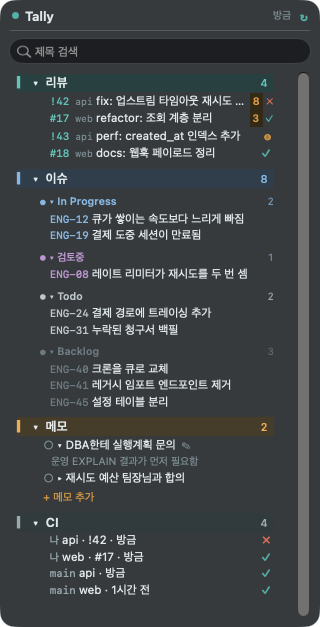
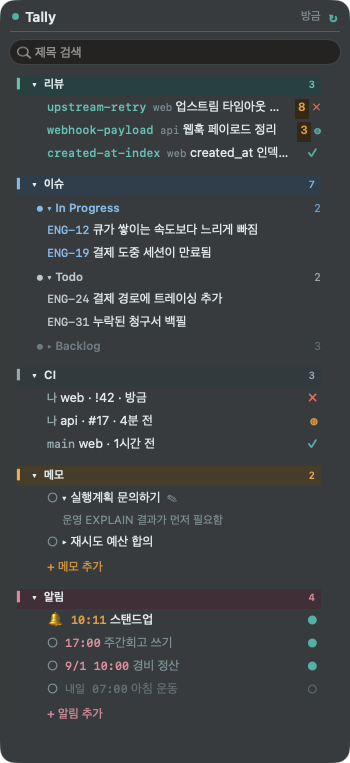
docs: shoot the screenshots again, now that there are five sections
The images still showed four sections in the old sizes, and reviews still
led with !42 rather than the branch. Retaken from a sample-data instance:
five sections in the current order, an alarm that has rung and one
switched off, and the bell in the menu bar.

Also fixes a real bug the reshoots exposed: right after login the panel
anchors to a menu-bar item that has no window yet, so it lands off
screen. It now re-anchors as soon as the item has a place, and a
MW_DIR instance logs its window and item frames so the documentation
shots can be scripted.

diff --git a/widget.swift b/widget.swift
@@ -1586,6 +1586,19 @@ final class Widget: NSObject, NSApplicationDelegate, NSTextViewDelegate,
         return NSRect(x: x, y: top - h, width: w, height: h)
     }
 
+    /// 로그인 직후에는 메뉴바 아이콘이 아직 자리를 못 잡아서 창이 엉뚱한 곳에 붙는다.
+    /// 아이콘 자리가 생길 때까지 몇 번 더 붙여본다.
+    func reanchorSoon(_ delays: [Double] = [0.4, 1.2, 2.5, 4.0]) {
+        guard (statusItem?.button?.window?.frame.height ?? 0) < 1 else { return }
+        for d in delays {
+            DispatchQueue.main.asyncAfter(deadline: .now() + d) { [weak self] in
+                guard let self, self.panel?.isVisible == true,
+                      (self.statusItem?.button?.window?.frame.height ?? 0) >= 1 else { return }
+                self.fitAndAnchor()
+            }
+        }
+    }
+
     /// 내용 높이에 맞춰 창을 줄이고 아이콘 아래로 붙인다.
     /// 창 폭이 바뀌면 오른쪽 정렬(개수)과 띠 배경이 어긋나므로 한 번 더 그린다.
     func fitAndAnchor() {
@@ -1597,6 +1610,12 @@ final class Widget: NSObject, NSApplicationDelegate, NSTextViewDelegate,
         let chrome: CGFloat = fs(32) + fs(30) + 26      // 헤더 + 검색칸 + 여백
         panel.setFrame(anchorFrame(height: ceil(textHeight) + chrome), display: true)
         panel.contentView?.layoutSubtreeIfNeeded()
+        // 데모용 인스턴스에서만 — 문서 스크린샷 좌표
+        if ProcessInfo.processInfo.environment["MW_DIR"] != nil {
+            log("창 \(panel.windowNumber) \(panel.frame)"
+                + "  아이콘 \(statusItem.button?.window?.frame ?? .zero)"
+                + "  화면 \(NSScreen.screens.map { $0.frame })")
+        }
         adjusting = false
         if abs(contentWidth() - lastRenderWidth) > 2 { render() }
     }
@@ -2912,7 +2931,13 @@ final class Widget: NSObject, NSApplicationDelegate, NSTextViewDelegate,
         panel.contentView?.layoutSubtreeIfNeeded()
         render()
         fitAndAnchor()
+        reanchorSoon()
         updateAgentCheck()
+        // 데모용 인스턴스(MW_DIR)에서는 문서 스크린샷을 찍을 수 있게 좌표를 남긴다
+        if ProcessInfo.processInfo.environment["MW_DIR"] != nil {
+            log("창 번호 \(panel.windowNumber)  프레임 \(panel.frame)")
+            if let f = statusItem.button?.window?.frame { log("메뉴바 아이콘 \(f)") }
+        }
         // 한 프레임 뒤 실제 폭으로 한 번 더 (스크롤바 등장 등으로 폭이 바뀔 수 있다)
         DispatchQueue.main.async { [weak self] in
             self?.render()

diff --git a/README.md b/README.md
@@ -3,17 +3,19 @@
 <sub>**한국어** · [English](README.en.md)</sub>
 
 내가 걸려 있는 일들을 메뉴바 한 곳에서 보는 macOS 위젯입니다.
-**내 리뷰(MR·PR) · 내 이슈 · 내 메모 · CI 상태** 네 가지를 봅니다.
+**내 리뷰(MR·PR) · 내 이슈 · CI 상태 · 내 메모 · 알림** 다섯 가지를 봅니다.
+앞의 세 개는 남의 시스템에서 모아 오고, 뒤의 두 개는 내가 직접 적습니다.
 
 메뉴바를 누르면 아이콘 바로 아래로 목록이 펼쳐집니다. 다시 누르면 닫힙니다.
 다른 창을 클릭해도 닫히지 않으니, 코드 보면서 곁눈질하기 좋습니다.
 
 <p align="center">
-  <img src="docs/menubar-ko.png" alt="메뉴바" width="180"><br>
-  <img src="docs/screenshot-ko.png" alt="Tally 창" width="320">
+  <img src="docs/menubar-ko.png" alt="메뉴바" width="220"><br>
+  <img src="docs/screenshot-ko.png" alt="Tally 창" width="350">
 </p>
 
-<p align="center"><sub>개수는 메뉴바에, 목록은 누르면 그 아래로.<br>화면에 보이는 것은 예시 데이터입니다.</sub></p>
+<p align="center"><sub>개수는 메뉴바에, 목록은 누르면 그 아래로.
+안 끈 알림이 있으면 메뉴바에 종(🔔)이 남습니다.<br>화면에 보이는 것은 예시 데이터입니다.</sub></p>
 
 ## 무엇이 좋은가
 
@@ -23,6 +25,10 @@
   받아오는 라이브러리 0개입니다.
 - **토큰은 내 맥에만.** `config.sh` 에 넣고, 그 파일은 git 이 추적하지 않습니다.
   `gh`/`glab` 로그인을 이미 해뒀다면 **토큰을 파일에 아예 안 둬도** 됩니다.
+- **알림이 붙어 있습니다.** 요일·날짜를 정해두면 그 시각에 울리고, **끌 때까지**
+  메뉴바에 종이 남습니다. 아이폰 알람처럼 고르고, 알림마다 켜고 끕니다.
+- **글자 크기와 간격을 메뉴에서 바꿉니다.** 설정 파일을 열지 않아도 되고,
+  누르면 그 자리에서 다시 그려집니다.
 
 ## 설치
 
@@ -333,7 +339,7 @@ CLI 가 있는 것이면 이 방식으로 다 됩니다 — `kubectl` · `gh run
 
 | 파일 | 무엇 |
 |---|---|
-| `widget.swift` | 창·메뉴바·배너·검색·접기·메모 — 보이는 전부 |
+| `widget.swift` | 창·메뉴바·배너·검색·접기·메모·알림 — 보이는 전부 |
 | `fetch.py` | 소스에서 모아 `data.json` 으로 |
 | `config.sh` | 내 설정과 토큰 (git 제외) |
 | `make-icon.swift` | 아이콘을 코드로 그림 → `icon.icns` |
@@ -342,8 +348,9 @@ CLI 가 있는 것이면 이 방식으로 다 됩니다 — `kubectl` · `gh run
 | `discover.sh` | 찾기 번거로운 ID 들을 뽑아줌 |
 | `sources/` | 소스 스크립트 예시 |
 
-`data.json`·`memo.txt`·`done.txt`·`ui-state.json`·`tally.log` 는 전부 평범한
-텍스트 파일이고 git 에서 제외됩니다. 손으로 열어보고 고쳐도 됩니다.
+`data.json`·`memo.txt`·`done.txt`·`alarm.txt`·`ui-state.json`·`tally.log` 는 전부
+평범한 텍스트 파일이고 git 에서 제외됩니다. 손으로 열어보고 고쳐도 됩니다.
+`ui-state.json` 에는 접어둔 칸, 메뉴로 바꾼 글자 크기, 안 끈 알림 상태가 들어갑니다.
 
 ## 알아둘 점
 

diff --git a/README.en.md b/README.en.md
@@ -1,17 +1,20 @@
 # Tally
 
 A menu-bar widget for macOS that keeps the things you are on the hook for in one
-place: **your open reviews, your issues, your notes, and your CI.**
+place: **your open reviews, your issues, your CI, your notes, and your alarms.**
+The first three are gathered from other people's systems; the last two are yours
+to write.
 
 Click the menu-bar item and the list drops down under it. Click again and it
 closes. It does not steal focus, so you can keep it open while you work.
 
 <p align="center">
-  <img src="docs/menubar.png" alt="Tally in the menu bar" width="232"><br>
-  <img src="docs/screenshot.png" alt="The Tally panel" width="320">
+  <img src="docs/menubar.png" alt="Tally in the menu bar" width="280"><br>
+  <img src="docs/screenshot.png" alt="The Tally panel" width="350">
 </p>
 
-<p align="center"><sub>The counts live in the menu bar; the panel drops down when you click them.<br>Sample data — your own repos, issues and notes go in the same places.</sub></p>
+<p align="center"><sub>The counts live in the menu bar; the panel drops down when you click them.
+A bell stays there while an alarm is waiting to be turned off.<br>Sample data — your own repos, issues, notes and alarms go in the same places.</sub></p>
 
 - **Read-only.** Tally never writes to GitLab, GitHub, Plane or Jira. It only reads.
 - **No dependencies.** Compiled with the `swiftc` that ships with macOS
@@ -26,6 +29,10 @@ closes. It does not steal focus, so you can keep it open while you work.
 Reviews stall because nobody notices the comments. Issues drift because they
 live in a tab you closed. CI breaks on a branch you pushed twenty minutes ago.
 None of that needs a dashboard — it needs a glance.
+
+And the two halves belong together: the things other people put on your plate,
+and the things you put there yourself — a note, or an alarm that rings on the
+days you chose and stays lit until you turn it off.
 
 ## Install
 
@@ -220,7 +227,7 @@ that looks like good news.
 
 | file | what |
 |---|---|
-| `widget.swift` | the window, menu bar, banners, search, folding, notes |
+| `widget.swift` | the window, menu bar, banners, search, folding, notes, alarms |
 | `fetch.py` | reads your sources, writes `data.json` |
 | `config.sh` | your settings and tokens (git-ignored) |
 | `make-icon.swift` | draws the app icon in code → `icon.icns` |
@@ -228,8 +235,10 @@ that looks like good news.
 | `install.sh` / `uninstall.sh` | login item on/off |
 | `sources/` | example plug-in sources |
 
-State files (`data.json`, `memo.txt`, `done.txt`, `ui-state.json`, `tally.log`)
-are all git-ignored and all plain text, so you can read or edit them by hand.
+State files (`data.json`, `memo.txt`, `done.txt`, `alarm.txt`, `ui-state.json`,
+`tally.log`) are all git-ignored and all plain text, so you can read or edit them
+by hand. `ui-state.json` holds what you folded, the sizes you set from the menu,
+and which alarms are still waiting to be turned off.
 
 ## Notes and limits
 
